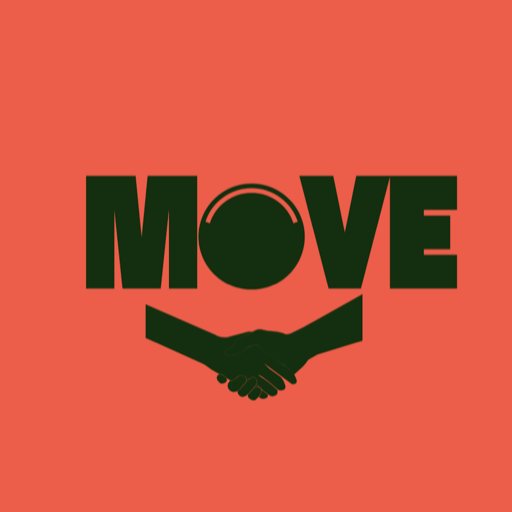
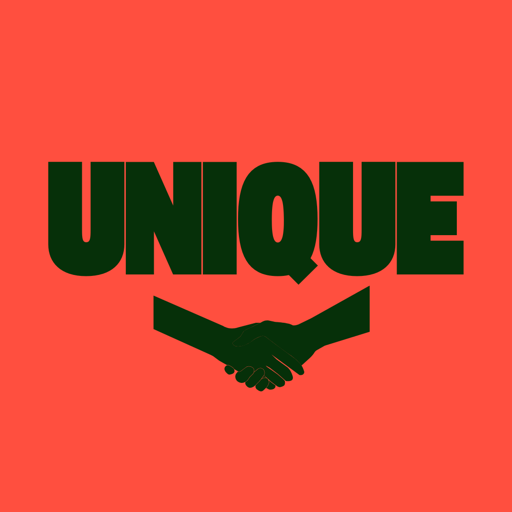
Rebrand from MOVE to UNIQUE
Company renamed. Updated the wordmark in header/footer, hero copy,
page metadata, email sender name, and swapped the logo image, favicon,
and social-share image for the new UNIQUE mark. Colors and typography
unchanged. Internal move-* Tailwind color tokens intentionally left
as-is since they're not user-visible.

Changed region(s): [[0.0938, 0.3125, 0.9062, 0.7812], [0.5938, 0.6875, 0.625, 0.7188]]

diff --git a/src/components/landing/hero.tsx b/src/components/landing/hero.tsx
@@ -15,7 +15,7 @@ export default function Hero() {
             cuando quieras.
           </h1>
           <p className="mt-5 max-w-md font-body text-lg text-move-green/70">
-            Con un plan de créditos <span className="font-brand text-move-green">MOVE</span> accedes a
+            Con un plan de créditos <span className="font-brand text-move-green">UNIQUE</span> accedes a
             cycling, boxing, yoga y muchas más disciplinas en los mejores
             gimnasios y estudios afiliados, sin ataduras a uno solo.
           </p>
@@ -37,8 +37,8 @@ export default function Hero() {
 
         <div className="relative aspect-square w-full max-w-md justify-self-center overflow-hidden rounded-[2.5rem] bg-move-coral md:justify-self-end">
           <Image
-            src="/brand/move-logo-source.png"
-            alt="MOVE"
+            src="/brand/unique-logo-source.png"
+            alt="UNIQUE"
             fill
             sizes="(min-width: 768px) 28rem, 90vw"
             className="object-contain p-10"

diff --git a/src/app/layout.tsx b/src/app/layout.tsx
@@ -8,9 +8,9 @@ import "./globals.css";
 
 export const metadata: Metadata = {
   metadataBase: new URL(process.env.NEXT_PUBLIC_SITE_URL ?? "http://localhost:3000"),
-  title: "MOVE — Entrena en los mejores gimnasios y estudios",
+  title: "UNIQUE — Entrena en los mejores gimnasios y estudios",
   description:
-    "Un solo plan de créditos para acceder a cycling, boxing, yoga y más en los gimnasios y estudios afiliados a MOVE.",
+    "Un solo plan de créditos para acceder a cycling, boxing, yoga y más en los gimnasios y estudios afiliados a UNIQUE.",
 };
 
 export default function RootLayout({

diff --git a/src/components/layout/footer.tsx b/src/components/layout/footer.tsx
@@ -9,7 +9,7 @@ export default function Footer() {
         <div className="grid gap-10 md:grid-cols-3">
           <div>
             <p className="font-brand text-2xl font-bold uppercase tracking-tight">
-              MOVE
+              UNIQUE
             </p>
             <p className="mt-3 max-w-xs font-body text-sm text-white/70">
               Un solo plan de créditos para entrenar en los mejores gimnasios
@@ -40,7 +40,7 @@ export default function Footer() {
         </div>
 
         <div className="mt-10 flex flex-col gap-4 border-t border-white/10 pt-6 text-xs text-white/50 sm:flex-row sm:items-center sm:justify-between">
-          <p>© {new Date().getFullYear()} MOVE. Todos los derechos reservados.</p>
+          <p>© {new Date().getFullYear()} UNIQUE. Todos los derechos reservados.</p>
           <nav className="flex gap-6">
             <Link href="/#gimnasios" className="hover:text-white">
               Gimnasios

diff --git a/src/components/layout/header.tsx b/src/components/layout/header.tsx
@@ -37,7 +37,7 @@ export default async function Header() {
           href="/"
           className="font-brand text-2xl font-bold uppercase tracking-tight text-move-green"
         >
-          MOVE
+          UNIQUE
         </Link>
 
         <nav className="hidden items-center gap-8 md:flex">

diff --git a/src/lib/email.ts b/src/lib/email.ts
@@ -10,7 +10,7 @@ async function sendEmail(params: {
 }): Promise<void> {
   const apiKey = process.env.RESEND_API_KEY;
   if (!apiKey) throw new Error("Falta RESEND_API_KEY.");
-  const from = process.env.RESEND_FROM_EMAIL || "MOVE <[email redacted]>";
+  const from = process.env.RESEND_FROM_EMAIL || "UNIQUE <[email redacted]>";
 
   const res = await fetch("https://api.resend.com/emails", {
     method: "POST",